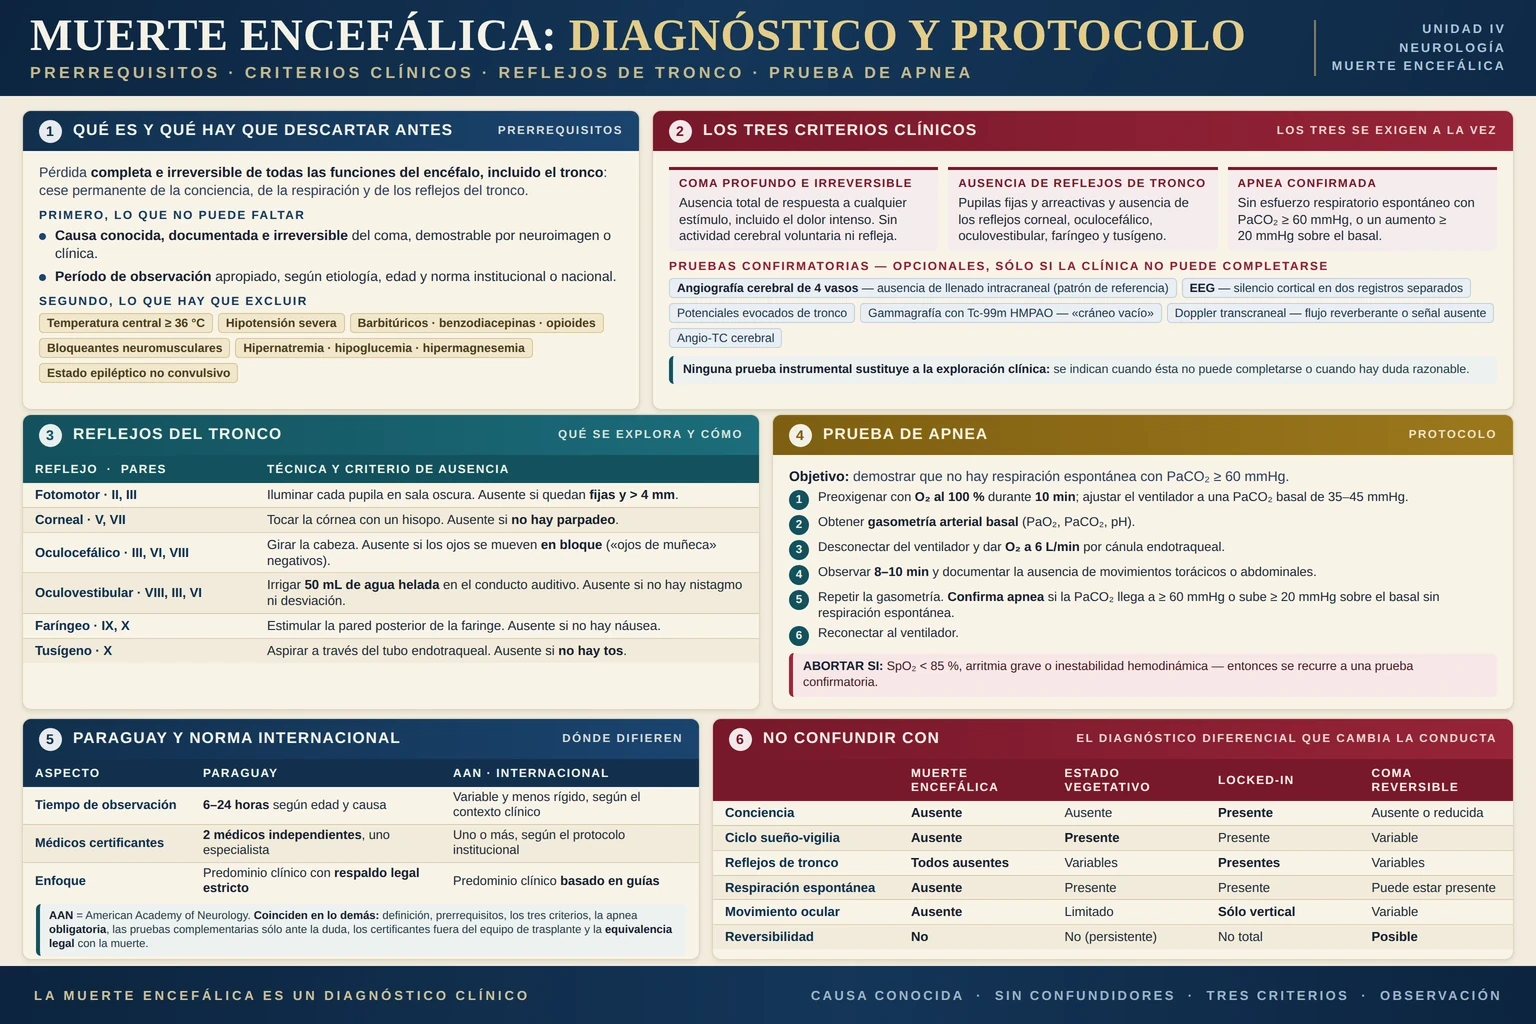
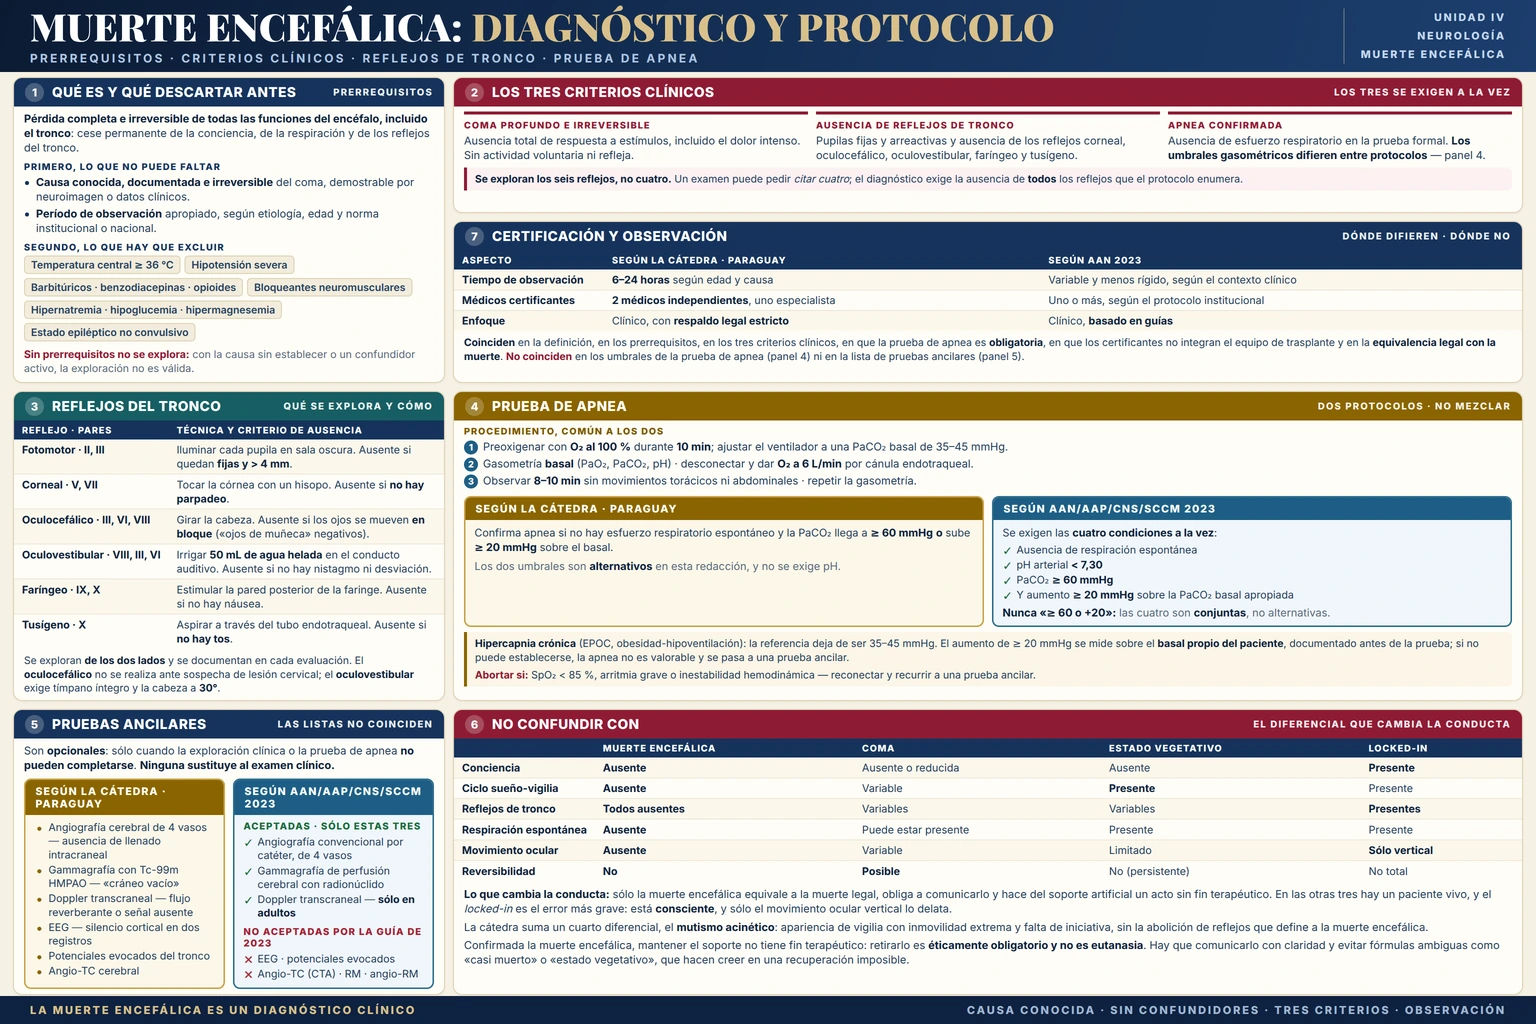
Neurologia (visual): refaz a fig 36 separando catedra e AAN 2023
A versao anterior nao podia ser aprovada. Tres defeitos cientificos:

1. Prueba de apnea com «>=60 mmHg O +20 mmHg». Essa e a redaccao DA CATEDRA
   e fica preservada e rotulada como tal, mas estava apresentada como se
   fosse tambem o criterio internacional. A figura passa a mostrar os dois
   protocolos lado a lado. O de AAN/AAP/CNS/SCCM 2023 exige as QUATRO
   condicoes em conjunto: ausencia de respiracao espontanea E pH < 7,30 E
   PaCO2 >= 60 mmHg E aumento >= 20 mmHg sobre a PaCO2 basal apropriada.
   A figura escreve «Nunca >=60 o +20». Acrescenta a regra da hipercapnia
   cronica: o basal e o do proprio paciente, documentado antes da prova.

2. Lista unica de provas ancilares, misturadas como se fossem equivalentes.
   Agora sao duas listas separadas: a da catedra, com as seis que ensina,
   preservada; e a da AAN 2023, que aceita apenas tres - angiografia
   convencional por cateter de 4 vasos, gammagrafia de perfusao cerebral
   com radionuclideo e Doppler transcraniano so em adultos - e nao aceita
   EEG, potenciais evocados, angio-TC (CTA), RM nem angio-RM.

3. «Coinciden en lo demas». Era falso e saiu. O painel novo diz onde
   coincidem e onde NAO coincidem, nomeando os dois pontos.

Acrescenta «Se exploran los seis reflejos, no cuatro»: a prova pode pedir
para citar quatro, mas o diagnostico exige a ausencia de todos.

Conteudo mantido: prerrequisitos, causa conhecida e irreversivel, exclusao
[…]

diff --git a/Repasso-Med-Site--main/Atual - Copia/assets/img/neuro/MAPA-DE-INSERCAO.md b/Repasso-Med-Site--main/Atual - Copia/assets/img/neuro/MAPA-DE-INSERCAO.md
@@ -7,14 +7,26 @@
 
 ---
 
-## 1 · Assets novos
+## 1 · Assets novos · pontos de inserção
 
-| Asset | Slide fonte | Conteúdo | Ponto de inserção recomendado |
+> **Atualizado nesta rodada.** O PR #74 criou os blocos que faltavam, então as
+> orientações antigas — «não existe bloco de sueño» e «35/36 → neub01» —
+> **caducaram e foram removidas**. Os pontos de inserção abaixo são os válidos.
+
+| Asset | Bloco destino | Secção | O que já cobre |
 |---|---|---|---|
-| `neurologia_33_sueno_y_vigilia_regulacion_y_arquitectura.webp` | Slide **7** · Unidad III · «Sueño y vigilia» | SRAA com os cinco núcleos e seus neurotransmissores; Proceso C (NSQ, luz, melatonina) × Proceso S (adenosina); hipnograma da noite; tabela comparativa N1-N2 × N3 × REM em dez linhas | **Não há bloco de sueño na matéria.** Precisa de um bloco novo — sugestão: `neub17 · 😴 Sueño y vigilia`, logo depois do bloco 01 (estado de conciencia), que já ensina o SRAA. A figura entra no fim da secção «arquitectura del sueño» desse bloco novo. |
-| `neurologia_34_trastornos_del_sueno.webp` | Slide **7** · Unidad III | Insomnio agudo × crónico com o modelo 3P de Spielman; hipersomnia primária × secundária; narcolepsia (hipocretina, HLA DQB1\*06:02, TLMS, tratamento); parasomnias NREM / REM / transição | Mesmo bloco novo, na secção de trastornos, depois da figura 33. |
-| `neurologia_35_coma_mecanismo_causas_y_localizacion.webp` | Slide **8** · Unidad IV · «Glasgow, coma, muerte cerebral» | Definição de coma; os três mecanismos (córtex bilateral / SRAA focal / difusa metabólica); causas estruturais × metabólicas; **tabela das pupilas** com nível e etiologia; padrão respiratório, mirada e resposta motora | **Bloco 01**, §6 «La exploración ocular en el paciente con conciencia alterada», **no fim da secção** — depois do último parágrafo e antes do `<h3>7 · Síntesis del bloque</h3>`. |
-| `neurologia_36_muerte_encefalica_diagnostico_y_protocolo.webp` | Slide **8** · Unidad IV | Prerrequisitos e exclusões; os três critérios clínicos; provas confirmatórias; os seis reflexos de tronco com a técnica; protocolo da prova de apneia em seis passos; **Paraguai × AAN**; diagnóstico diferencial muerte encefálica × vegetativo × locked-in × coma reversible | **Bloco 01**, logo depois da figura 35 (ou já dentro de §7, antes do post-it de síntese). Só faz sentido depois de o resumo ensinar muerte encefálica — hoje a matéria **não ensina**: o termo só aparece no banco geral (`bq-neu…`). Ver secção 3. |
+| `neurologia_33_sueno_y_vigilia_regulacion_y_arquitectura.webp` | **`neub17` · Sueño y vigilia** | Fim de **«4 · La arquitectura de la noche»** — ou de **«7 · La tabla que resuelve el bloque»**, que a figura espelha | SRAA com os cinco núcleos e seus neurotransmissores; Proceso C (NSQ, luz, melatonina) × Proceso S (adenosina); hipnograma da noite; comparação N1-N2 × N3 × REM em dez linhas |
+| `neurologia_34_trastornos_del_sueno.webp` | **`neub17` · Sueño y vigilia** | Fim de **«9 · Parasomnias · cada una vive en su fase»**, depois de **«8 · Alteraciones frecuentes»** | Insomnio agudo × crónico com o modelo 3P de Spielman; hipersomnia primária × secundária; narcolepsia (hipocretina, HLA DQB1\*06:02, TLMS, tratamento); parasomnias NREM / REM / transição |
+| `neurologia_35_coma_mecanismo_causas_y_localizacion.webp` | **`neub18` · Coma / muerte encefálica** | Fim de **«3 · Localizar sin moverlo de la cama · hallazgo → nivel»** | Definição de coma; os três mecanismos (córtex bilateral / SRAA focal / difusa metabólica); causas estruturais × metabólicas; tabela das pupilas com nível e etiologia; padrão respiratório, mirada e resposta motora |
+| `neurologia_36_muerte_encefalica_diagnostico_y_protocolo.webp` | **`neub18` · Coma / muerte encefálica** | Fim de **«5 · Muerte cerebral»**, **depois** de o texto explicar os critérios e a prova de apneia | Prerrequisitos e exclusões; os três critérios clínicos; os seis reflexos de tronco com a técnica; prova de apneia **com os dois protocolos separados**; pruebas ancilares **com as duas listas separadas**; certificação e observação Paraguai × AAN; diferencial muerte encefálica × coma × vegetativo × locked-in |
+
+Nomes de secção conferidos no HTML da branch `edit/c2-neurologia-unidades-iii-iv`
+(`856916e`): `neub17 · 🌙 Sueño y vigilia` tem nove secções numeradas e `neub18 ·
+🚨 Glasgow, coma y muerte cerebral` tem cinco, sendo a §5 «Muerte cerebral».
+
+**Ordem de leitura dentro de `neub18`:** primeiro a 35 (coma e localização), depois
+a 36 (muerte encefálica). A 36 só faz sentido depois de o resumo ensinar os
+critérios — a lei 8-A.2 continua a valer.
 
 ### Figuras antigas prontas para voltar a aparecer
 
@@ -37,7 +49,8 @@ highlight neuportada        1
 highlight banconeu          1
 ```
 
-**Nenhum traço de caneta e nenhum grifo está ancorado em `neub01`…`neub16`.**
+**Nenhum traço de caneta e nenhum grifo está ancorado em `neub01`…`neub16`**, nem nos
+blocos novos `neub17` e `neub18`.
 A tinta é posicional (`sec.id + '>' + índice` sobre
 `p,li,h2,h3,h4,h5,table,figure,blockquote`), então inserir um `<figure>` dentro
 de um bloco deslocaria os índices daquele bloco — mas como os blocos não têm
@@ -63,10 +76,10 @@ Conferido abrindo as 30 imagens publicadas, uma a uma, não pelos nomes de arqui
   acrescenta o que falta: os cinco núcleos com seu neurotransmissor e as duas
   vias de projeção.
 - **Buraco de conteúdo:** o slide 8 ensina muerte encefálica com protocolo
-  completo e o **resumo da matéria não ensina isso em lugar nenhum** — o termo
-  só aparece dentro de questões do banco geral. Pela lei 8-A.2 (resumo ensina →
-  questão cobra), isso é uma pendência de texto, não de imagem. Quem editar o
-  HTML precisa escrever a secção antes de pendurar a figura 36.
+  completo. O PR #74 criou `neub18 · Coma / muerte encefálica`; quem reconectar
+  as figuras deve confirmar que o texto desse bloco **ensina os critérios e a
+  prova de apneia antes** de pendurar a figura 36, porque a lei 8-A.2 (resumo
+  ensina → questão cobra) continua a valer.
 
 ---
 
@@ -110,3 +123,39 @@ Nenhuma destas foi alterada — são inconsistências, não erros:
 5. **Marca:** `neurologia_24`, `25`, `27`, `28` e `29` trazem o logotipo
    «Repasso Med»; as outras 25 não. As quatro figuras novas seguem a maioria e
    **não trazem marca no conteúdo central**.
+
+---
+
+## 6 · Registro da reconstrução da figura 36 (rodada Claude 1)
+
+A versão anterior **não podia ser aprovada** e foi refeita. Três defeitos
+científicos, todos corrigidos:
+
+1. **Prova de apneia com «≥ 60 mmHg *o* +20 mmHg».** Essa é a redação **da
+   cátedra**, e ficou preservada e rotulada como tal — mas estava apresentada
+   como se fosse também o critério internacional. A figura passa a mostrar os
+   dois protocolos lado a lado, e o da **AAN/AAP/CNS/SCCM 2023** exige as
+   **quatro condições em conjunto**: ausência de respiração espontânea **e**
+   pH arterial < 7,30 **e** PaCO₂ ≥ 60 mmHg **e** aumento ≥ 20 mmHg sobre a
+   PaCO₂ basal apropriada. A figura diz explicitamente «Nunca ≥ 60 *o* +20».
+   Acrescentou-se a regra da **hipercapnia crónica** (o basal é o do próprio
+   paciente, documentado antes da prova).
+2. **Lista única de provas ancilares.** Estavam misturadas como se todas
+   fossem equivalentes. Agora são duas listas separadas: a **da cátedra**, com
+   as seis que ela ensina, preservada; e a da **AAN 2023**, que aceita
+   **apenas três** — angiografia convencional por cateter de 4 vasos,
+   gammagrafia de perfusão cerebral com radionuclídeo e Doppler transcraniano
+   **só em adultos** — e **não aceita** EEG, potenciais evocados, angio-TC
+   (CTA), RM nem angio-RM.
+3. **«Coinciden en lo demás».** A afirmação era falsa e saiu. O painel 7 diz
+   agora onde coincidem (definição, prerrequisitos, três critérios, apneia
+   obrigatória, certificantes fora da equipa de transplante, equivalência
+   legal) e **onde não coincidem** (umbrales da apneia e lista de ancilares).
+
+Também se acrescentou, porque a prova o cobrou: **«Se exploran los seis
+reflejos, no cuatro»** — o exame pode pedir para *citar quatro*, mas o
+diagnóstico exige a ausência de todos os que o protocolo enumera.
+
+Fonte da coluna da cátedra: slide da Unidad IV, «Escala de Coma de Glasgow,
+coma, muerte cerebral», Dra. Silvia Duarte, Universidad Central del Paraguay.
+**Nenhum outro raster foi alterado nesta rodada.**
